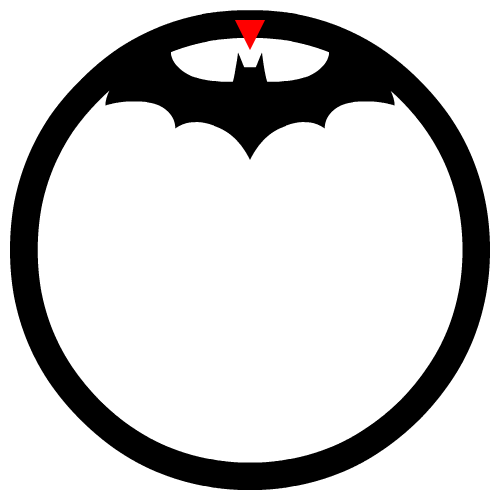
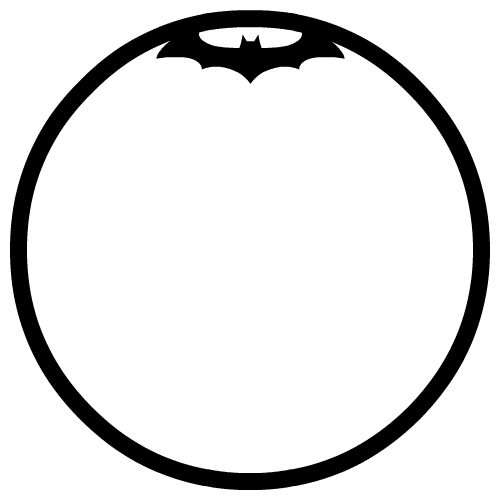
More responsive steering

Changed region(s): [[0.03, 0.03, 0.96, 0.96]]

diff --git a/proto/js/driving.js b/proto/js/driving.js
@@ -433,16 +433,64 @@ DrivingGame = function(){
 
 			}
 
-			drivingwheel{
+			drivingwheel, drivinghud{
 				position: absolute;
 				display: block;
-				width: ${W*0.6}px;
-				height: ${W*0.6}px;
-				left: ${W*0.2}px;
-				top: ${H-40}px;
+				width: ${W*0.8}px;
+				height: ${W*0.8}px;
+				left: ${W*0.1}px;
+				top: ${H-30}px;
 				background: url(./proto/img/bat-steering-wheel.png);
 				background-size: 100%;
+
+			}
+
+			drivingwheel{
+				opacity: 0.5;
+			}
+
+			drivinghud{
+				background: none;
+			}
+
+			drivingarrow{
+				position: absolute;
+				display: block;
+				width: 100%;
+				height: 100%;
+				background: url(./proto/img/bat-steering-arrow.png);
+				background-size: 100%;
+			}
+
+			drivingbtn{
+				position: absolute;
+				left: 0px;
+				right: 0px;
+				bottom: 0px;
+				top: 0px;
+				width: 5vw;
+				height: 5vw;
+				border: 0.1vw solid white;
+				box-sizing: border-box;
+				margin: auto;
 				z-index: 100;
+
+				background-image: url(./proto/img/bat-emp.gif);
+				background-size: 60%;
+				background-position: center;
+				background-repeat: no-repeat;
+			}
+
+			drivingbtn:before{
+				content:"TAP TO FIRE EMP";
+				position: absolute;
+				top: -1vw;
+				font-size: 0.5vw;
+				line-height: 1vw;
+				text-align: center;
+				color: white;
+				left: 0px;
+				right: 0px;
 			}
 
 			@keyframes frame6{
@@ -493,6 +541,16 @@ DrivingGame = function(){
 	let $missile = $('<drivingmissile>').appendTo($plane);
 
 	let $steeringWheel = $('<drivingwheel>').appendTo($game);
+
+	$('<drivingbtn>').appendTo($left);
+	$('<drivingbtn>').appendTo($right);
+
+
+	let $hud = $('<drivinghud>').appendTo($game);
+	let $arrows = [];
+	for(var i=0; i<5; i++){
+		$arrows[i] = $('<drivingarrow>').appendTo($hud).css('transform','rotate('+i*5+'deg)')
+	}
 
 	let sfx = {};
 
@@ -679,6 +737,8 @@ DrivingGame = function(){
 	let bogging = 0;
 	let missile = {};
 
+	const MISSILETIME = FPS;
+
 	function dist(a,b){
 		return Math.hypot(b.x-a.x,b.y-a.y);
 	}
@@ -724,7 +784,11 @@ DrivingGame = function(){
 		let lane = Math.sin(rRelative)*d;
 		let max = (WROAD/2-WCAR/2);
 
-		let r = txRelative*45;
+		let r = txRelative*25;
+
+		let rAmt = Math.abs(txRelative);
+		$hud.css('transform','scaleX('+(txRelative>0?1:-1)+')')
+		for(var a=0; a<$arrows.length; a++) $arrows[a].css('opacity',(rAmt > (a+1)/($arrows.length+2))?1:0);
 		
 
 		let tooFarLeft = (lane<-max);
@@ -754,7 +818,7 @@ DrivingGame = function(){
 
 		
 		
-		car.r += r*elapsed;
+		car.r += r*elapsed*2;
 
 		$car.css({
 			left: car.x*GRID +'px',
@@ -804,8 +868,9 @@ DrivingGame = function(){
 		if(boosting == FPS) sfx.boost.play();
 		if(bogging == FPS/2) sfx.hit.play();
 
-		if(missile.flying){
-			missile.flying--;
+
+		if(missile.flying > 0 && missile.flying < MISSILETIME ){
+			
 			missile.x += Math.sin(missile.r*Math.PI/180)*speed*elapsed*2;
 			missile.y += Math.cos(missile.r*Math.PI/180)*speed*elapsed*2;
 
@@ -823,6 +888,8 @@ DrivingGame = function(){
 			missile.y = car.y;
 			missile.r = car.r + rTargeting;
 		}
+
+		missile.flying--;
 
 
 		$aim.css('transform',"rotateZ(" + (-r+rTargeting) + "deg)");
@@ -864,7 +931,7 @@ DrivingGame = function(){
 		sfx.scrape.play();
 		sfx.screech.play();
 
-		missile.flying = FPS;
+		missile.flying = MISSILETIME;
 		sfx.missile.play();
 		sfx.missile.currentTime = 0;
 	})
